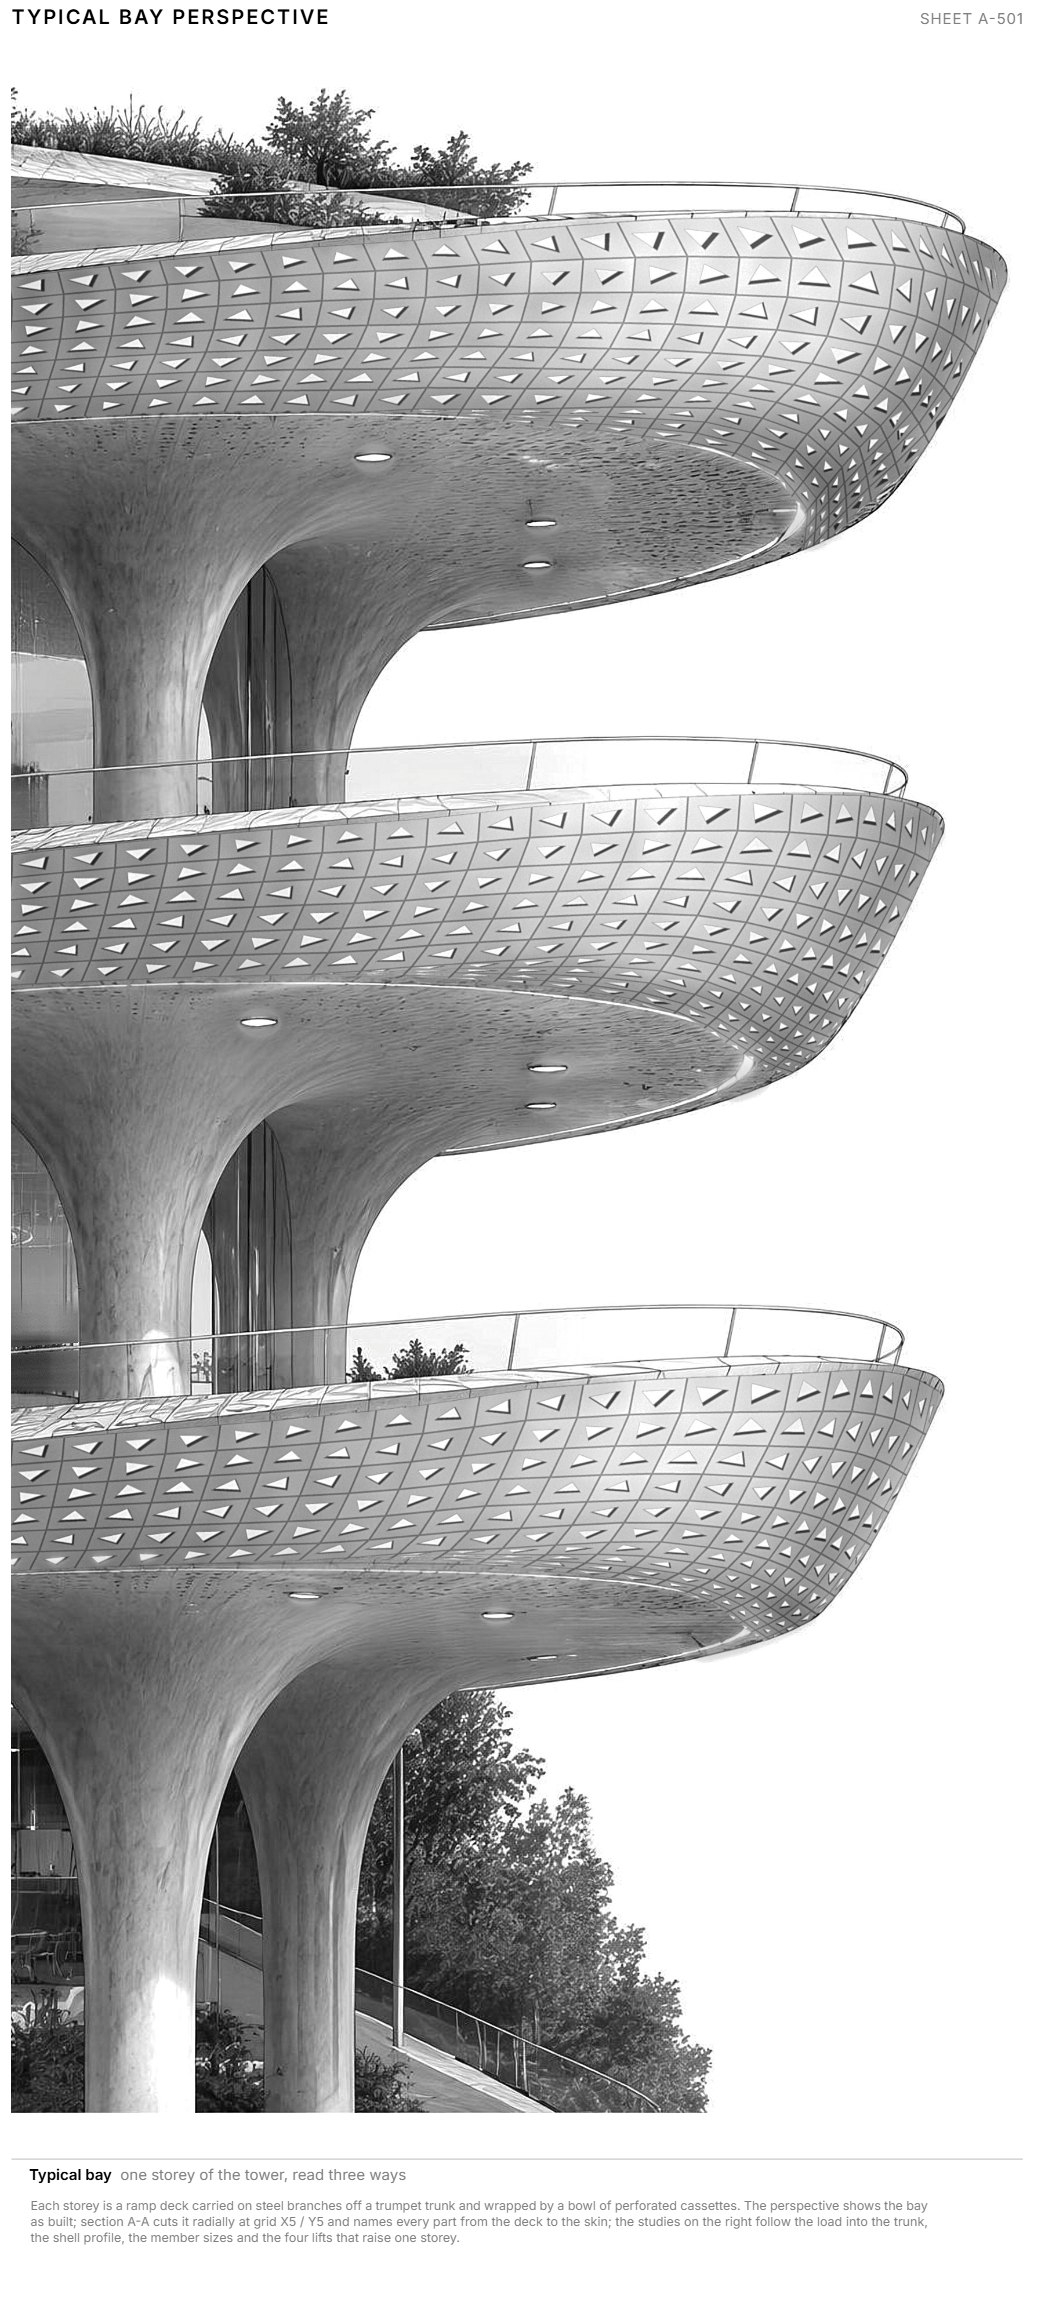
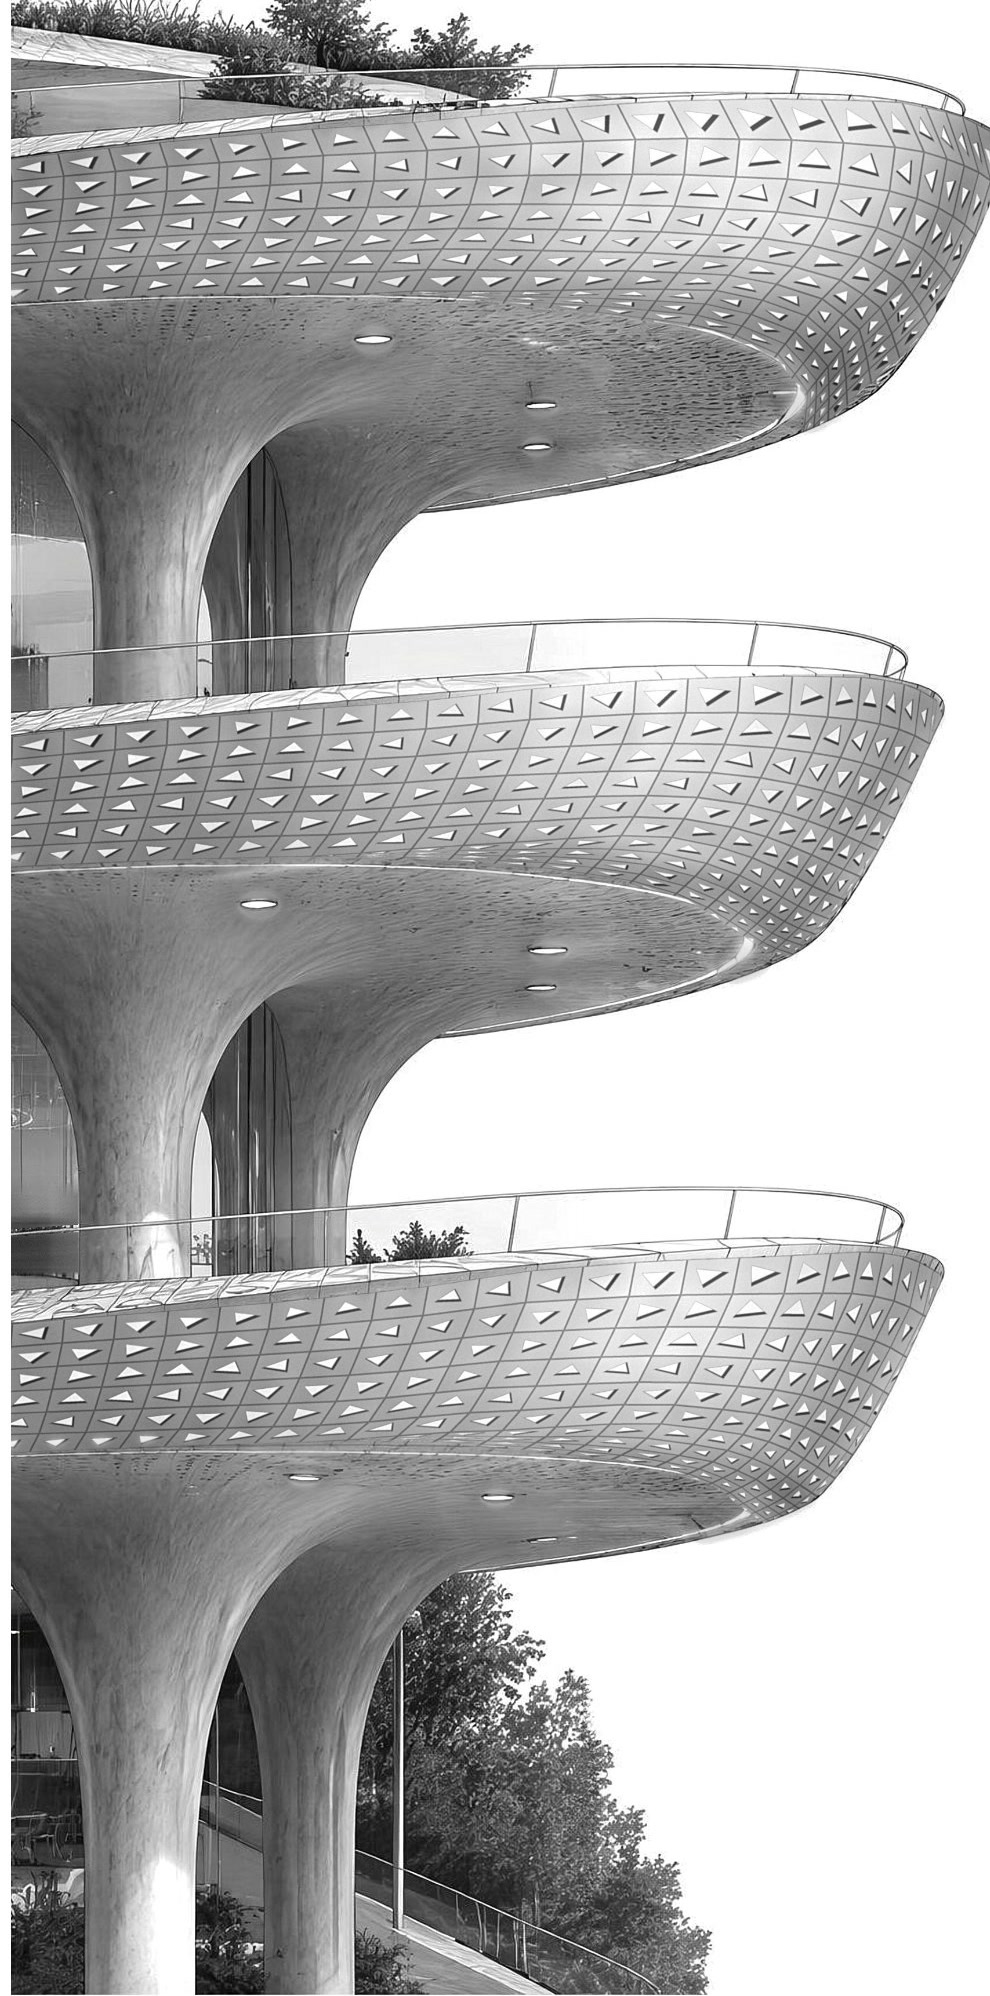
핀 #170 (PRND Structure): 대표 베이 투시도를 시트 제목·설명 글 없이 렌더만 잘라 옆 상세 단면 A–A와 같은 높이로

diff --git a/assets/js/data.js b/assets/js/data.js
@@ -523,7 +523,7 @@ const SITE = {
       { heading: "Stacked Bowls", text: "Two ramps, A up at 11 % and B down at 9 %, wind through stacked bowls of car museum, drive-thru, F&B and a rooftop showroom, carried on trumpet columns.", images: [{src: "assets/img/motorism/axonometric.jpg", caption: "Axonometric — steel deck truss in every slab, two one-way ramps, trumpet columns", r: 1.349}] },
       { heading: "Plans", text: "Six levels on one grid — from the parking below ground to the showroom on the roof, the ramp and the bowls turning through every floor.", big: true, images: [], seq: {"kind":"frames","r":1.056,"fade":true,"tag":true,"steps":[{"src":"assets/img/motorism/plan-b1.jpg","t":"B1","s":"FL −4,000 — parking for 46 cars, MDF room"},{"src":"assets/img/motorism/plan-1f.jpg","t":"1F","s":"FL ±0 — entrance, F&B, pop-up, plaza"},{"src":"assets/img/motorism/plan-2f.jpg","t":"2F","s":"FL +5,200 — car museum, information, exit"},{"src":"assets/img/motorism/plan-3f.jpg","t":"3F","s":"FL +8,800 — car museum, F&B"},{"src":"assets/img/motorism/plan-4f.jpg","t":"4F","s":"FL +12,200 — drive-thru booths"},{"src":"assets/img/motorism/plan-rf.jpg","t":"RF","s":"car showroom, car theatre"}]} },
       { heading: "Sections", text: "Two long cuts — the core and both ramps, the trumpet columns under the bowls.", big: true, cols: 2, images: [{src: "assets/img/motorism/section-a.jpg", caption: "Section A–A′ — through the core and both ramps", r: 1.405}, {src: "assets/img/motorism/section-b.jpg", caption: "Section B–B′ — through the trumpet columns and the bowls", r: 1.405}] },
-      { heading: "Structure", big: true, cols: 2, cw: [0.79, 0.933], gap: "12px", text: "Each storey is a deck truss carried off a trumpet column and wrapped by a bowl of perforated cassettes — one bay read three ways, the load path, the trumpet geometry and erection in four lifts.", images: [{src: "assets/img/motorism/typical-bay.jpg", caption: "Typical bay perspective", r: 0.452}, {"src":"assets/img/motorism/detail-section-aa.jpg","caption":"Detail section A–A — mushroom column, ramp edge, parametric skin","r":0.653,"lead":30,"leadGap":2.6,"ln":1,"notes":[["01","Rim box + cap",""],["02","Parapet liner",""],["03","Curved apron",""],["04","Ramp deck",""],["05","Outer edge girder",""],["06","Parametric skin",""],["07","Deck truss",""],["08","Bracket truss",""],["09","Hull rib",""],["10","Cast steel node",""],["11","Secondary struts",""],["12","Inner branch",""],["13","Tree branch (arc)",""],["14","Trunk",""],["15","Soffit",""],["16","Column shell",""],["17","Trumpet foot",""],["18","Plaza",""]],"tags":[[85,2.8,"01","c pt"],[83.8,5.9,"02","c pt"],[70,8.7,"03","c pt"],[18,9.5,"04","c pt"],[63.6,10.8,"05","c pt"],[84.2,11.5,"06","c pt"],[16,12.3,"07","c pt"],[71.5,14.1,"08","c pt"],[77,17,"09","c pt"],[27.6,36.6,"10","c pt"],[38.5,39.3,"11","c pt"],[22.5,42.5,"12","c pt"],[47,43.2,"13","c pt"],[27.6,47.1,"14","c pt"],[61,69.6,"15","c pt"],[24,79.1,"16","c pt"],[20.5,94.6,"17","c pt"],[60,95.8,"18","c pt"]]}] },
+      { heading: "Structure", big: true, cols: 2, cw: [0.496, 0.933], gap: "24px", text: "Each storey is a deck truss carried off a trumpet column and wrapped by a bowl of perforated cassettes — one bay read three ways, the load path, the trumpet geometry and erection in four lifts.", images: [{src: "assets/img/motorism/typical-bay.jpg", caption: "Typical bay perspective", r: 0.496, w: "100%"} /* 핀 #170: 시트 제목·설명 글 빼고 렌더만, 옆 단면과 같은 높이 */, {"src":"assets/img/motorism/detail-section-aa.jpg","caption":"Detail section A–A — mushroom column, ramp edge, parametric skin","r":0.653,"lead":30,"leadGap":2.6,"ln":1,"notes":[["01","Rim box + cap",""],["02","Parapet liner",""],["03","Curved apron",""],["04","Ramp deck",""],["05","Outer edge girder",""],["06","Parametric skin",""],["07","Deck truss",""],["08","Bracket truss",""],["09","Hull rib",""],["10","Cast steel node",""],["11","Secondary struts",""],["12","Inner branch",""],["13","Tree branch (arc)",""],["14","Trunk",""],["15","Soffit",""],["16","Column shell",""],["17","Trumpet foot",""],["18","Plaza",""]],"tags":[[85,2.8,"01","c pt"],[83.8,5.9,"02","c pt"],[70,8.7,"03","c pt"],[18,9.5,"04","c pt"],[63.6,10.8,"05","c pt"],[84.2,11.5,"06","c pt"],[16,12.3,"07","c pt"],[71.5,14.1,"08","c pt"],[77,17,"09","c pt"],[27.6,36.6,"10","c pt"],[38.5,39.3,"11","c pt"],[22.5,42.5,"12","c pt"],[47,43.2,"13","c pt"],[27.6,47.1,"14","c pt"],[61,69.6,"15","c pt"],[24,79.1,"16","c pt"],[20.5,94.6,"17","c pt"],[60,95.8,"18","c pt"]]}] },
       { heading: "Structure — Load, Shape, Lift", text: "The same bay read for how the load travels, how the trumpet shell is shaped, and how the ground storey goes up.", cols: 2, cw: [1.357, 2.166], images: [{"src":"assets/img/motorism/load-path.jpg","caption":"Load path — bracket action","r":1.357,"nc":4,"tags":[[7.2,18,"1","c pt"],[49,34.5,"2","c pt"],[74.4,38.7,"3","c pt"],[53.8,42.7,"4","c pt"],[45.7,55.5,"5","c pt"],[17.3,56.2,"5","c pt"],[19.9,82.1,"6","c pt"],[31.2,93.6,"7","c pt"],[3.6,24.8,"+12,600","","lv"],[3.6,93.6,"+7,200","","lv"],[71,17.2,"q"],[83.5,14,"bowl","","m"],[42.4,60.8,"Bracket action","","b"],[61.5,66.5,"z 3,775 — top chord to cast node"],[61.5,70.5,"e 3,657 — lever arm"],[61.5,74.5,"T = C = 0.97 ZP"],[42.4,81.6,"Share of the storey load","","b"],[43.6,88.4,"69 % outer"],[68.6,88.4,"21 % inner"],[88.2,88.4,"10 % trunk"]],"notes":[["1","Deck","RC 175 on composite deck 75 between the radial top chords"],["2","Deck truss","H-200 top, CHS Ø139.7 bottom, Ø76.3 web @490"],["3","Edge girder","CHS Ø273 pipe truss gathers the bowl; seats on the arc tip"],["4","Struts","CHS Ø88.9 drop every second node onto the arc"],["5","Branches","Arc box 380 → 260 in compression; inner box 300 → 220"],["6","Cast node","G20Mn5 collar gathers both branches, M30 splices"],["7","Trunk","CFT Ø508 takes it all down to the base plate"]]}, {"src":"assets/img/motorism/trumpet-geometry.jpg","caption":"Trumpet geometry — GFRC shell profile as a curvature graph","r":2.166,"tags":[[13,1.5,"2,600 inner flare","c"],[23,1.5,"CL","c"],[39,1.5,"4,400 CL → lip","c"],[23.1,71.5,"Ø 910","c","lv"],[3,76,"FL +7,200","","lv"],[57.3,52,"3,350","r"],[60.4,46,"2,300"],[67,4,"90°","r"],[67,30,"60°","r"],[67,56,"30°","r"],[67,79.5,"0°","r"],[97.4,4,"0.8"],[97.4,41.8,"0.4"],[97.4,79.5,"0"],[72.4,83.5,"1","c"],[77.2,83.5,"2","c"],[82.1,83.5,"3","c"],[87,83.5,"4","c"],[91.8,83.5,"5","c"],[73.5,22,"R 1,767","c"],[82.2,19,"R 1,685","c"],[68.6,37.4,"G1","r"],[67.8,94,"outer"],[77.8,94,"inner"]],"notes":[["Cap : shaft","9.5 : 1","Ø 8,600 : Ø 910"],["Profile","6.18 m","10 sub-frame rings @600"],["GFRC","≈ 67 m²","per storey, the outer profile revolved"],["Tightest","R 1,767","at h 1,963, outer"],["Graph","φ and κ","black: flare angle, red: curvature 1/m, along the profile s (m)"]]}, {"src":"assets/img/motorism/erection.jpg","caption":"Erection — ground storey, GL → +7,200, in four lifts","r":3.525,"span":true,"notes":[["1","Trunk + base","CFT Ø508 on its base plate; C50 pumped later"],["2","Node + branches","Collar on the trunk, branches spliced, tip propped"],["3","Deck truss + girder","Truss, struts, girder bolted; deck poured"],["4","Sub-frame + shell","Ribs and rings off the trunk; GFRC panels hung"]]}] },
       { heading: "Skin — Why This Pattern", text: "Four fields over one bay, weighted and summed, set how open each cassette is.", cols: 2, images: [{"src":"assets/img/motorism/skin-why-sight.svg","caption":"H — Sight + street","r":2.041},{"src":"assets/img/motorism/skin-why-views.svg","caption":"A — Views","r":2.041},{"src":"assets/img/motorism/skin-why-sun.svg","caption":"S — Sun","r":2.062},{"src":"assets/img/motorism/skin-why-grain.svg","caption":"N — Grain","r":2.049},{"src":"assets/img/motorism/skin-why-result.svg","caption":"Result — open area","r":2.028}] },
       { heading: "Skin — Process", text: "The eight steps of the definition, from the ramp edge to 234 cut cassettes. Scroll to step through; red marks what each step adds.", big: true, images: [], seq: {"kind":"frames","r":1.557,"fade":true,"tag":true,"steps":[{"src":"assets/img/motorism/skin-proc-1.jpg","t":"Ramp edge + views","s":"plan of ring 1, one bay","d":"Ring 1 is the rail, cut into bays of 15.6 m — 26 modules of 600. Two view points sit on the rim (red); each pulls the field open.","k":[["Girder line","R 12,500"],["View 1","s 4,600 · reach 2,600"],["View 2","s 13,800 · reach 3,000"]]},{"src":"assets/img/motorism/skin-proc-2.jpg","t":"Three traced profiles","s":"section through the three bowls","d":"Each bowl section is a 4-point Bézier drawn in Rhino over the sketch (red control points); bay 05 uses bowl 2. Rows R1–R9 sit every 600 along it.","k":[["Bowl 1","deck 1, +800"],["Bowl 2","this bay"],["Bowl 3","deck 3, +800"]]},{"src":"assets/img/motorism/skin-proc-3.jpg","t":"Sweep the hull","s":"one surface along the ramp","d":"Perp Frame and Orient stand the profile on the bay's rail; Sweep1 runs it along ring 1 as it rises 5.5 % — one surface per bay.","k":[["Rail","ring 1, the ramp edge"],["Red section","s = 7.8 m"]]},{"src":"assets/img/motorism/skin-proc-4.jpg","t":"Divide into modules","s":"26 × 9 = 234 cassettes","d":"Iso-curve edges: u in 26 parts, v every 600 plus the rim. Cross Reference and Isotrim turn them into a tree of 26 branches × 9 items.","k":[["u","15,600 / 600 = 26 columns"],["v","5,336 / 600 = 9 rows"],["Red cell","B05-R3-C17"]]},{"src":"assets/img/motorism/skin-proc-5.jpg","t":"Four fields","s":"one value 0–1 per cassette","d":"Top: H rises up the hull, A peaks at the views. Bottom: S is the Ladybug summer-afternoon radiation, N a seeded grain from GhPython.","k":[["H height","× .60"],["A near a view","× .40"],["S sun 65–265 kWh/m²","× −.40"],["N grain","× .10"]]},{"src":"assets/img/motorism/skin-proc-6.jpg","t":"Weight + clamp","s":"the open ratio o and its 7 steps","d":"The weighted sum is clamped and remapped to 8–52 %, then snapped to the nearest of 7 punch steps. Map of the bay above, cassettes per step below.","k":[["v",".60 H + .40 A − .40 S + .10 N"],["o","8 % + 44 % · clamp(v, 0, 1)"]]},{"src":"assets/img/motorism/skin-proc-7.jpg","t":"One triangle per cassette","s":"corner rule + scale","d":"Three corners of the ±240 punch field make the triangle; its corner turns to the view, with a 15 % flip. Size k comes from o, scaled about the centroid. Right: the 28 cutting files, step × corner.","k":[["Corner","BL — hypotenuse to view 2"],["k","0.86 · min(.92, 2 · 0.227) = 0.579"],["Files","28 = 7 steps × 4 corners"]]},{"src":"assets/img/motorism/skin-proc-8.jpg","t":"Map back + fabricate","s":"bay 05 as built, then flat","d":"Each cut is mapped onto the hull and onto a flat trapezoid blank, tagged B-R-C and baked: one layer per cut file plus a CSV for the shop.","k":[["Row shown","R3-C15 … C20"],["Out","DXF × 28 + CSV"]]}]} },
